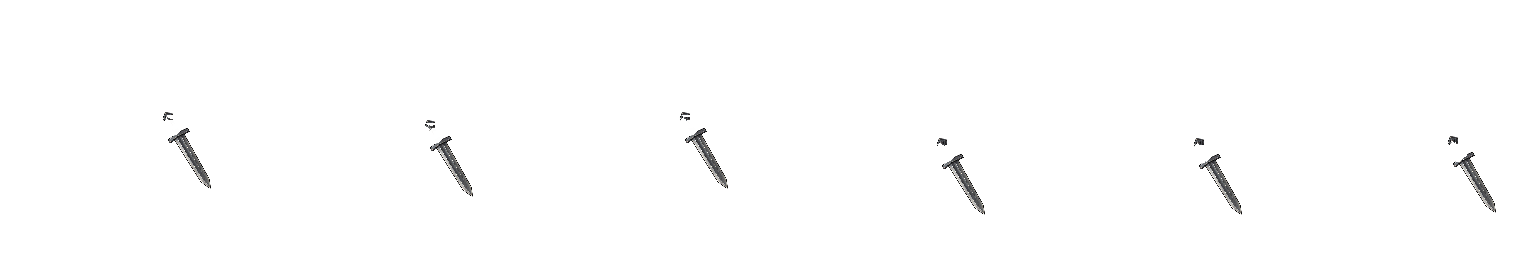
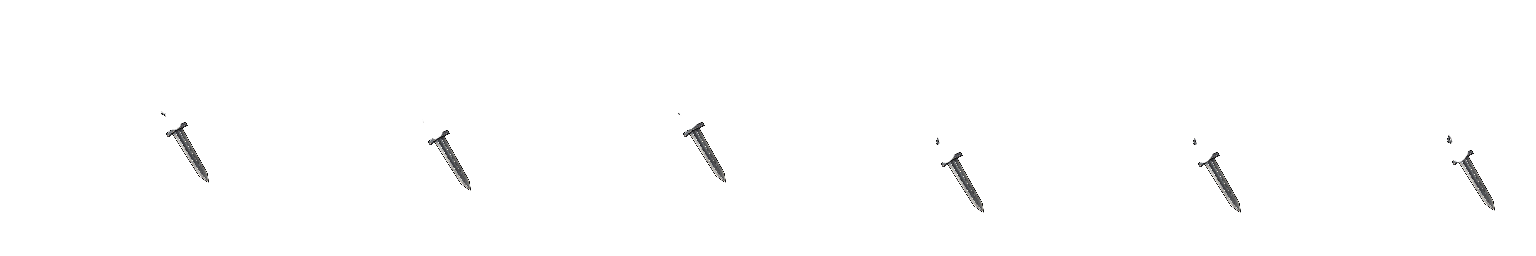
Correct up-facing sword grip attachment after native visual QA

diff --git a/docs/painted-walk-pilot.md b/docs/painted-walk-pilot.md
@@ -7,3 +7,5 @@ The original white-background drawings are separated into exposed-body and armor
 This is the accepted bounded pilot, not a complete animation replacement. Existing lead-leg/arm-alternation and illustrated costume drift remain. Subpixel warm antialias pixels can remain around some skin edges; inspect native palette captures. Hair has no separate sway. Per-foot contact or slide-free stride is not proven by the timing-derived 103.333 px cycle. Increasing travel from 135 to 155 without increasing animation cadence lengthens the visual stride and may increase foot sliding.
 
 Local Godot validation: 25,089 checks pass, including 399 pilot-specific scope, cadence, registration and equipment checks. Native capture script covers four appearance combinations over all six drawings for each integrated direction plus an actual two-second bedroom traversal at 36 captured frames/sec. No APK is authorized until the map milestone is complete.
+
+Native review follow-up: up-facing sword guard initially floated below the fist. Weapon-only revision moves poses0–2 by(-2,-6) cell pixels and poses3–5 by(-1,-2), and hides the hilt behind the body silhouette. Body, hair, palette and timing are unchanged; native recapture is required after this correction.
